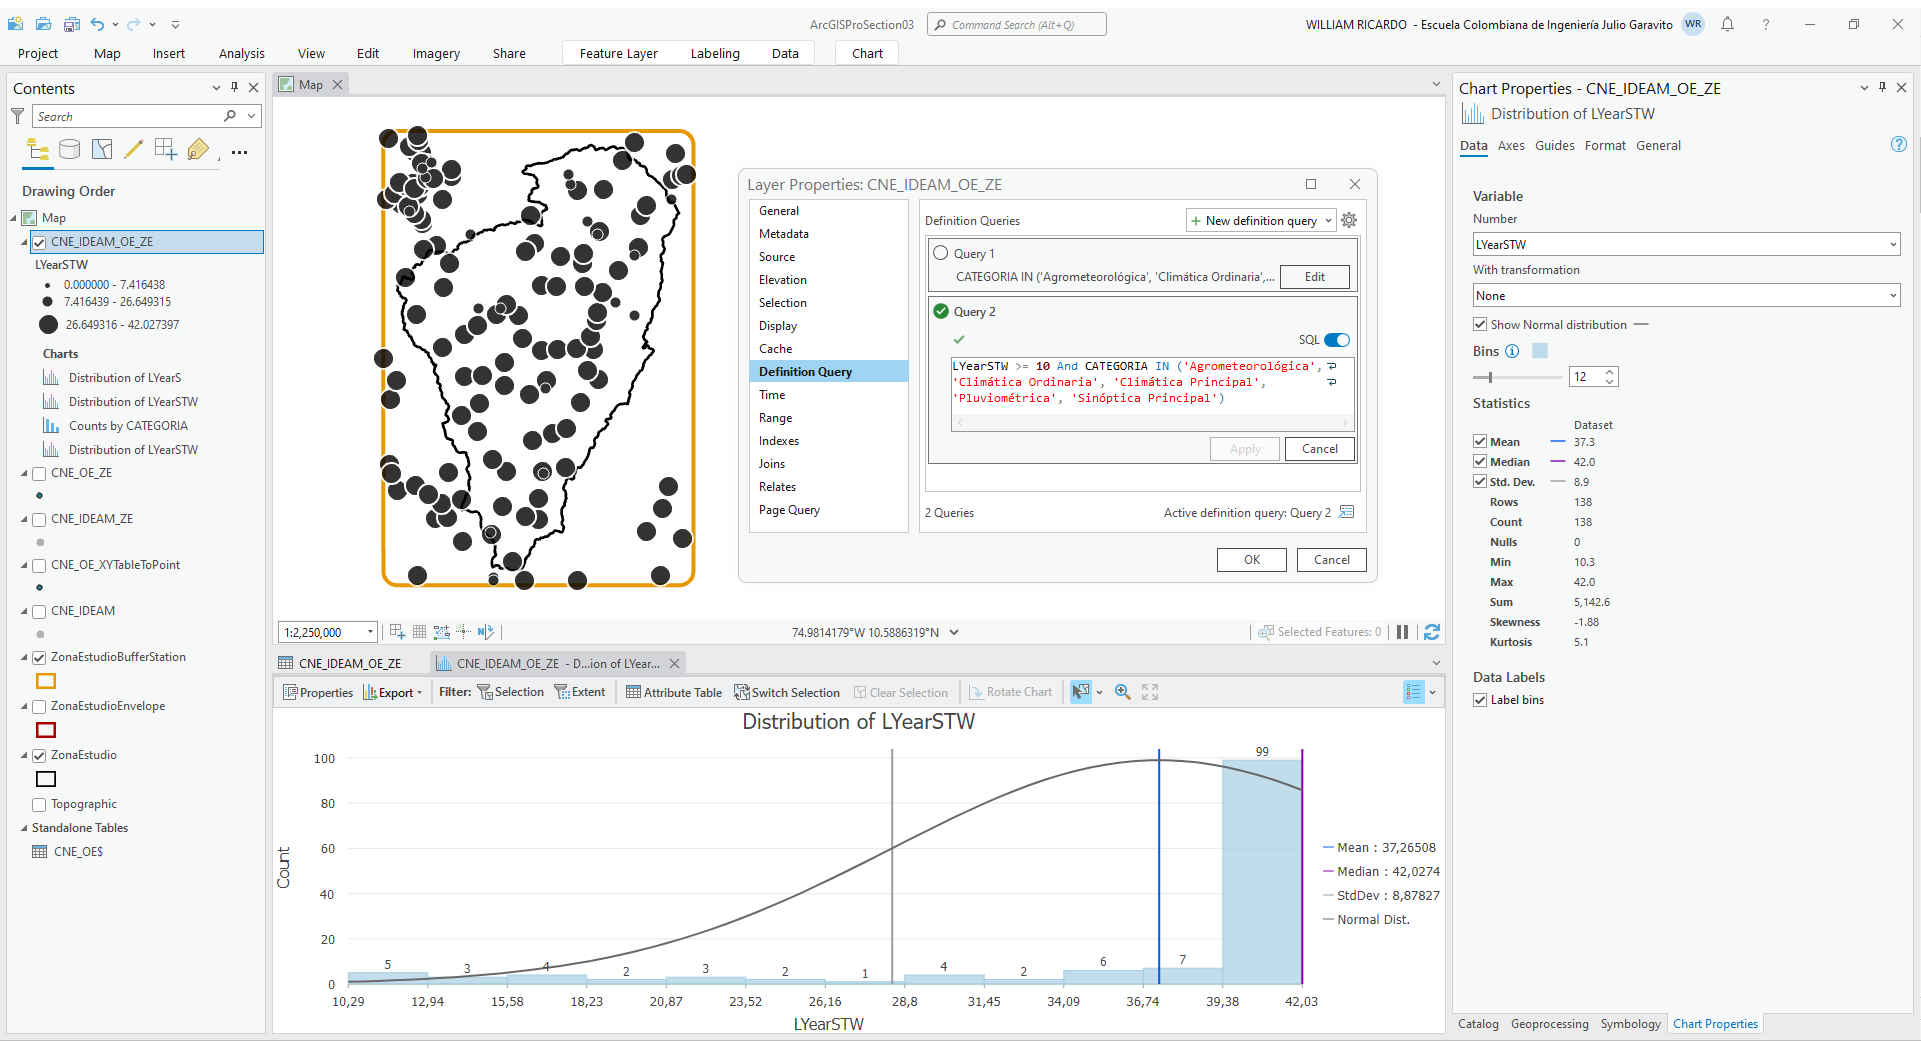
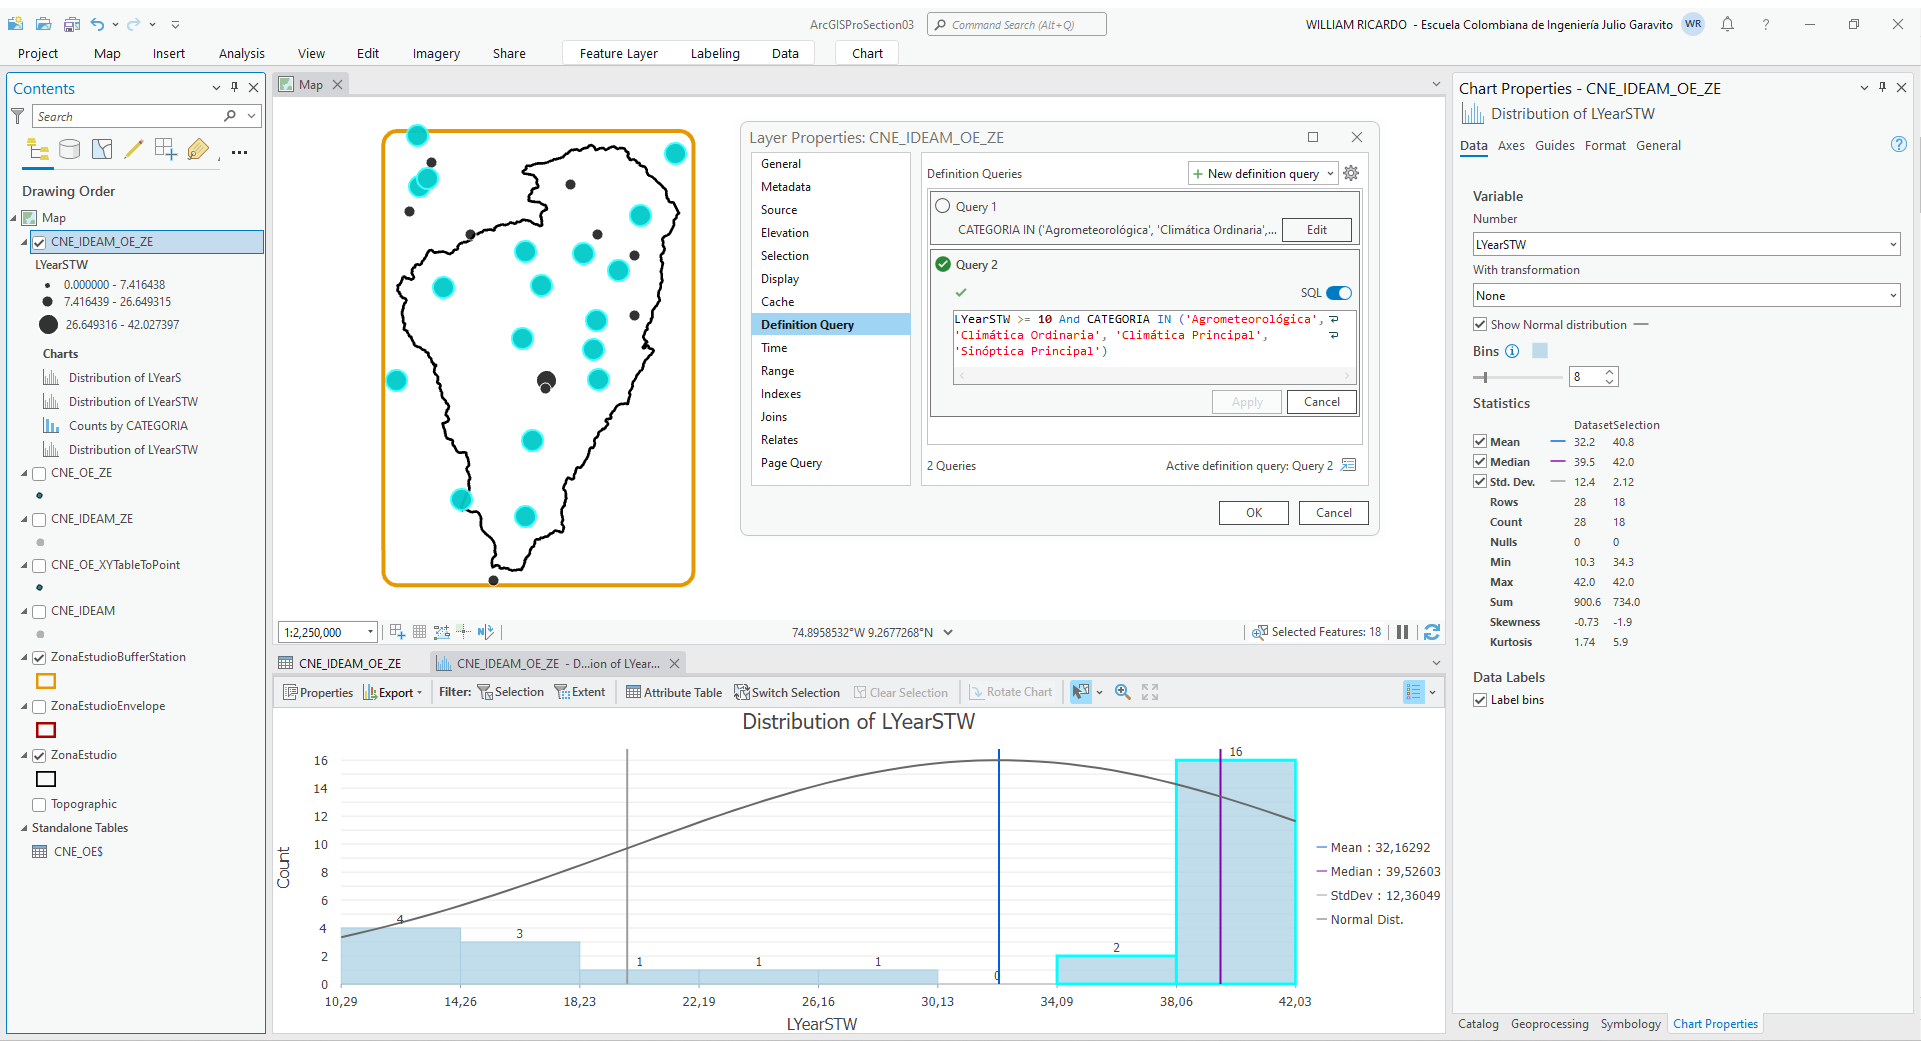
General update.

diff --git a/Section03/CNEStation/Readme.md b/Section03/CNEStation/Readme.md
@@ -450,31 +450,52 @@ Expresión SQL para series >= 10 años : `LYearSTW >= 10 And CATEGORIA IN ('Agro
 | Longitud hipotética en años >= 10<br>Cubrimiento: sobre toda la zona de estudio<br>Estaciones encontradas: 139<br>Media: 37.1 años<br>Mínimo: 10.3 años<br>Máximo: 42 años!<br>Desv. Est.: 9 años<br>![R.LTWB](https://github.com/rcfdtools/R.LTWB/blob/main/Section03/CNEStation/Screenshot/ArcGISPro3.0.0LYearSTWRain10.png)    | Longitud hipotética en años >= 15<br>Cubrimiento: sobre toda la zona de estudio<br>Estaciones encontradas: 132<br>Media: 38.4 años<br>Mínimo: 15 años<br>Máximo: 42 años!<br>Desv. Est.: 7.1 años<br>![R.LTWB](https://github.com/rcfdtools/R.LTWB/blob/main/Section03/CNEStation/Screenshot/ArcGISPro3.0.0LYearSTWRain15.png) | Longitud hipotética en años >= 20<br>Cubrimiento: sobre toda la zona de estudio<br>Estaciones encontradas: 124<br>Media: 39.8 años<br>Mínimo: 22.1 años<br>Máximo: 42 años!<br>Desv. Est.: 4.6 años<br>![R.LTWB](https://github.com/rcfdtools/R.LTWB/blob/main/Section03/CNEStation/Screenshot/ArcGISPro3.0.0LYearSTWRain20.png)  |
 | Longitud hipotética en años >= 25<br>Cubrimiento: sobre toda la zona de estudio<br>Estaciones encontradas: 119<br>Media: 40.5 años<br>Mínimo: 26.6 años<br>Máximo: 42 años!<br>Desv. Est.: 3.17 años<br>![R.LTWB](https://github.com/rcfdtools/R.LTWB/blob/main/Section03/CNEStation/Screenshot/ArcGISPro3.0.0LYearSTWRain25.png) | Longitud hipotética en años >= 30<br>Cubrimiento: sobre toda la zona de estudio<br>Estaciones encontradas: 116<br>Media: 40.8 años<br>Mínimo: 30.5 años<br>Máximo: 42 años!<br>Desv. Est.: 2.54 años<br>![R.LTWB](https://github.com/rcfdtools/R.LTWB/blob/main/Section03/CNEStation/Screenshot/ArcGISPro3.0.0LYearSTWRain30.png)   | Longitud hipotética en años >= 35<br>Cubrimiento: sobre toda la zona de estudio<br>Estaciones encontradas: 109<br>Media: 41.3 años<br>Mínimo: 35.1 años<br>Máximo: 42 años!<br>Desv. Est.: 1.58 años<br>![R.LTWB](https://github.com/rcfdtools/R.LTWB/blob/main/Section03/CNEStation/Screenshot/ArcGISPro3.0.0LYearSTWRain35.png) |
 
-Para el desarrollo del caso de estudio, utilizaremos las estaciones con datos de precipitación cuyas longitudes hipotéticas sean >= a 10 años que mayoritariamente se encuentran el el último rango de cortes naturales con valores superiores a 26.649315 años. En actividades posteriores analizaremos el traslapo entre las series reales y evaluaremos que estaciones requerirán ser completadas y/o extendidas.
+Para el desarrollo del caso de estudio, utilizaremos las estaciones con registros de precipitación cuyas longitudes hipotéticas sean >= a 10 años que mayoritariamente se encuentran el el último rango de cortes naturales con valores superiores a 26.649315 años. En actividades posteriores analizaremos el traslapo entre las series reales y evaluaremos que estaciones requerirán ser completadas y/o extendidas.
 
 
-### Identificación de estaciones con datos de temperatura
+### Identificación de estaciones con datos de temperatura del aire cerca al suelo
 
 En el caso específico de la temperatura del áire cerca a la superficie del suelo, los registros pueden ser obtenidos de estaciones Agrometeorológicas, Climatológicas Ordinarias, Climatológicas Principales, Sinópticas Principales y Sinópticas Secundarias.
 
-Desde las propiedades de la capa _CNE_IDEAM_OE_ZE.shp_ y a través del _Definition Query_, filtre las estaciones de las categorías indicadas y represente por símbolos graduados en 3 clases por cortes naturales a partir de las longitudes hipotéticas de series dentro de la ventana de tiempo calculadas en el campo `LYearSTW`. Visualice a escala 1:2,250,000 (en monitores FHD 1920 x 1080p). Podrá observar que para las categorías indicadas se obtienen 320 estaciones.
+Desde las propiedades de la capa _CNE_IDEAM_OE_ZE.shp_ y a través del _Definition Query_, filtre las estaciones de las categorías indicadas y represente por símbolos graduados en 3 clases por cortes naturales a partir de las longitudes hipotéticas de series dentro de la ventana de tiempo calculadas en el campo `LYearSTW`. Visualice a escala 1:2,250,000 (en monitores FHD 1920 x 1080p). Podrá observar que para las categorías indicadas se obtienen 71 estaciones.
 
 Expresión SQL: `CATEGORIA IN ('Agrometeorológica', 'Climática Ordinaria', 'Climática Principal', 'Sinóptica Principal', 'Sinóptica Secundaria')`
 
 ![R.LTWB](https://github.com/rcfdtools/R.LTWB/blob/main/Section03/CNEStation/Screenshot/ArcGISPro3.0.0LYearSTWTemperatureAirQuery.png)
 
-Desde las propiedades de la capa _CNE_IDEAM_OE_ZE.shp_ y a través del _Definition Query_, filtre todas aquellas estaciones cuya longitud hipotética de registro dentro de la ventana de tiempo sea mayor a 10 años para las categorías indicadas y evalúe mediante una estadística sobre el campo `LYearSTW`, la media de las longitudes hipotéticas de las series y obtenga los estadísticos característicos.
+Desde las propiedades de la capa _CNE_IDEAM_OE_ZE.shp_ y a través del _Definition Query_, filtre todas aquellas estaciones cuya longitud hipotética de registro dentro de la ventana de tiempo sea mayor a 5 años para las categorías indicadas y evalúe mediante una estadística sobre el campo `LYearSTW`, la media de las longitudes hipotéticas de las series y obtenga los estadísticos característicos.
 
-Expresión SQL para series >= 10 años : `LYearSTW >= 10 And CATEGORIA IN ('Agrometeorológica', 'Climática Ordinaria', 'Climática Principal', 'Sinóptica Principal', 'Sinóptica Secundaria')`
+Expresión SQL para series >= 5 años : `LYearSTW >= 5 And CATEGORIA IN ('Agrometeorológica', 'Climática Ordinaria', 'Climática Principal', 'Sinóptica Principal', 'Sinóptica Secundaria')`
 
-![R.LTWB](https://github.com/rcfdtools/R.LTWB/blob/main/Section03/CNEStation/Screenshot/ArcGISPro3.0.0LYearSTWTemperatureAirQueryCategory.png)
+| Series >= 10 años                                                                                                                                                                                                                                                                                                                       |
+|:----------------------------------------------------------------------------------------------------------------------------------------------------------------------------------------------------------------------------------------------------------------------------------------------------------------------------------------|
+| Longitud hipotética en años >= 10<br>Cubrimiento: sobre toda la zona de estudio<br>Estaciones encontradas: 42<br>Media: 23.8 años<br>Mínimo: 5 años<br>Máximo: 42 años!<br>Desv. Est.: 15.7 años<br>![R.LTWB](https://github.com/rcfdtools/R.LTWB/blob/main/Section03/CNEStation/Screenshot/ArcGISPro3.0.0LYearSTWTemperatureAir10.png) |
 
-| Series >= 10 y 25 años                                                                                                                                                                                                                                                                                                                     |
-|:-------------------------------------------------------------------------------------------------------------------------------------------------------------------------------------------------------------------------------------------------------------------------------------------------------------------------------------------|
-| Longitud hipotética en años >= 10<br>Cubrimiento: sobre toda la zona de estudio<br>Estaciones encontradas: 138<br>Media: 37.3 años<br>Mínimo: 10.3 años<br>Máximo: 42 años!<br>Desv. Est.: 8.9 años<br>![R.LTWB](https://github.com/rcfdtools/R.LTWB/blob/main/Section03/CNEStation/Screenshot/ArcGISPro3.0.0LYearSTWTemperatureAir10.png) |
+Como observa, existen dentro y al rededor de la zona de estudio tan solo 42 estaciones con longitudes hipotéticas de registro superiores a 5 años, de las cuales 19 tienen longitudes por encima de la media.
 
 
-Para el desarrollo del caso de estudio, utilizaremos las estaciones con datos de precipitación cuyas longitudes hipotéticas sean >= a 10 años que mayoritariamente se encuentran el el último rango de cortes naturales con valores superiores a 26.649315 años. En actividades posteriores analizaremos el traslapo entre las series reales y evaluaremos que estaciones requerirán ser completadas y/o extendidas.
+### Identificación de estaciones con datos de evaporación potencial
+
+En el caso específico de la evaporación potencial, los registros pueden ser obtenidos de estaciones Agrometeorológicas, Climatológicas Ordinarias y Climatológicas Principales.
+
+Desde las propiedades de la capa _CNE_IDEAM_OE_ZE.shp_ y a través del _Definition Query_, filtre las estaciones de las categorías indicadas y represente por símbolos graduados en 3 clases por cortes naturales a partir de las longitudes hipotéticas de series dentro de la ventana de tiempo calculadas en el campo `LYearSTW`. Visualice a escala 1:2,250,000 (en monitores FHD 1920 x 1080p). Podrá observar que para las categorías indicadas se obtienen 70 estaciones.
+
+Expresión SQL: `CATEGORIA IN ('Agrometeorológica', 'Climática Ordinaria', 'Climática Principal')`
+
+![R.LTWB](https://github.com/rcfdtools/R.LTWB/blob/main/Section03/CNEStation/Screenshot/ArcGISPro3.0.0LYearSTWEvaporationQuery.png)
+
+Desde las propiedades de la capa _CNE_IDEAM_OE_ZE.shp_ y a través del _Definition Query_, filtre todas aquellas estaciones cuya longitud hipotética de registro dentro de la ventana de tiempo sea mayor a 5 años para las categorías indicadas y evalúe mediante una estadística sobre el campo `LYearSTW`, la media de las longitudes hipotéticas de las series y obtenga los estadísticos característicos.
+
+Expresión SQL para series >= 5 años : `LYearSTW >= 5 And CATEGORIA IN ('Agrometeorológica', 'Climática Ordinaria', 'Climática Principal')`
+
+| Series >= 10 años                                                                                                                                                                                                                                                                                                                    |
+|:-------------------------------------------------------------------------------------------------------------------------------------------------------------------------------------------------------------------------------------------------------------------------------------------------------------------------------------|
+| Longitud hipotética en años >= 10<br>Cubrimiento: sobre toda la zona de estudio<br>Estaciones encontradas: 41<br>Media: 24.2 años<br>Mínimo: 5 años<br>Máximo: 42 años!<br>Desv. Est.: 15.6 años<br>![R.LTWB](https://github.com/rcfdtools/R.LTWB/blob/main/Section03/CNEStation/Screenshot/ArcGISPro3.0.0LYearSTWEvaporation10.png) |
+
+Como observa, existen dentro y al rededor de la zona de estudio tan solo 41 estaciones con longitudes hipotéticas de registro superiores a 5 años, de las cuales 19 tienen longitudes por encima de la media.
+
+
+
 
 
 
